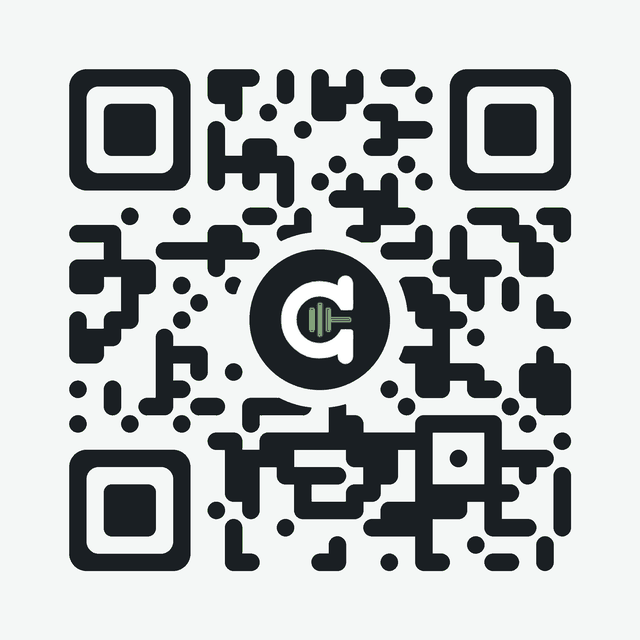
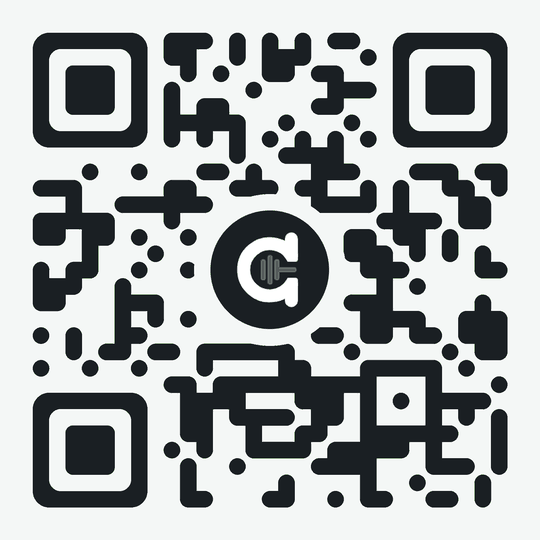
fix(webmail): socials flush right, pills lose a square border they never asked for
Three changes, one of which was a real bug rather than a preference.

THE SQUARE OUTLINE ROUND THE PILLS. border-radius does not apply to a table
cell when the table is border-collapse:collapse, which every table here is,
because that is what email HTML requires. The background rounded and the border
did not, so each capsule was drawn inside a square outline. Removing the border
removes the artefact; the tint alone carries the shape, which is what the
reference does anyway.

SOCIALS MOVE INTO THE TEXT COLUMN, flushed right under the title, instead of
holding a row of their own. They cost no height there, so everything below
moves up -- and because the QR panel runs the full height of the block, it
shrinks to match. That is what makes the tinted area behind the code smaller.

THE QR, AND A THEORY THAT TURNED OUT TO BE WRONG. Shrinking the panel padding
broke decoding, which led somewhere useful: the baked quiet zone is part of the
image, so at 4 modules it was eating 22% of the display size -- a 184px render
was putting only 144px of actual code on screen. Cut to 2 modules, with the
panel's own padding completing the quiet zone in the same colour, so a scanner
still reads one continuous margin across the join.

That did not fix it either, and the reason is worth recording so nobody
re-derives it. Decoding a browser-rendered code is erratic with respect to
display size, with no threshold to find: from a 640px source it read at 180px,
[…]

diff --git a/mail/signature-template.php b/mail/signature-template.php
@@ -389,7 +389,7 @@ function sig_pill(string $glyph, string $value): string
     return '<table border="0" cellpadding="0" cellspacing="0" role="presentation"'
         . ' style="border-collapse:collapse;mso-table-lspace:0pt;mso-table-rspace:0pt;">'
         . '<tr><td bgcolor="' . SIG_PILL_BG . '" style="background-color:' . SIG_PILL_BG
-        . ';border:1px solid ' . SIG_PILL_EDGE . ';border-radius:999px;padding:7px 15px 7px 7px;">'
+        . ';border-radius:999px;padding:7px 15px 7px 7px;">'
         . $inner . '</td></tr></table>';
 }
 
@@ -503,9 +503,10 @@ function sig_social_row(array $person, string $iconBase): string
             $mark = sig_chip($iconBase, $key, $label, 30);
         }
         if ($mark !== '') {
-            $chips[] = '<td valign="middle" style="padding:0 16px 0 0;font-size:0;line-height:0;'
-                . 'mso-line-height-rule:exactly;"><a href="' . sig_esc($url)
-                . '" style="text-decoration:none;">' . $mark . '</a></td>';
+            $chips[] = '<td valign="middle" class="cc-chip" style="padding:0 0 0 16px;'
+                . 'font-size:0;line-height:0;mso-line-height-rule:exactly;">'
+                . '<a href="' . sig_esc($url) . '" style="text-decoration:none;">'
+                . $mark . '</a></td>';
         } else {
             $texts[] = sig_link($url, $label);
         }
@@ -517,7 +518,7 @@ function sig_social_row(array $person, string $iconBase): string
 
     $out = ['<table border="0" cellpadding="0" cellspacing="0" role="presentation"'
         . ' style="border-collapse:collapse;mso-table-lspace:0pt;mso-table-rspace:0pt;'
-        . 'margin-top:14px;"><tr>'];
+        . 'margin-top:8px;"><tr>'];
     $out = array_merge($out, $chips);
 
     if ($texts) {
@@ -621,7 +622,7 @@ function sig_qr_panel(array $company): string
     }
     $size = max(112, (int) ($company['qr_size'] ?? 220));
     $url  = trim((string) ($company['label'] ?? '')) ?: 'our site';
-    $pad  = 16;
+    $pad  = 12;
 
     return '<table border="0" cellpadding="0" cellspacing="0" role="presentation"'
         . ' style="border-collapse:collapse;mso-table-lspace:0pt;mso-table-rspace:0pt;'
@@ -731,21 +732,24 @@ function sig_build(array $person, array $company, string $mailbox): string
             . $whoLine . '</div>';
     }
 
+    // Socials ride INSIDE the text column, flushed right under the title,
+    // rather than holding a row of their own. That is what lets everything
+    // below move up: the row is gone, the left column is shorter, and the
+    // full-height QR panel shrinks to match it.
+    $socials = sig_social_row($person, $iconBase);
+    if ($socials !== '') {
+        $lines[] = '<table border="0" cellpadding="0" cellspacing="0" role="presentation"'
+            . ' style="border-collapse:collapse;mso-table-lspace:0pt;mso-table-rspace:0pt;'
+            . 'width:100%;"><tr><td align="right">' . $socials . '</td></tr></table>';
+    }
+
     $ident[] = '<td valign="middle">' . implode('', $lines) . '</td>';
     $ident[] = '</tr></table>';
 
-    $left    = [implode('', $ident)];
-    $pills   = sig_contact_grid(sig_contact_rows($person, $mailbox), $iconBase);
-    $socials = sig_social_row($person, $iconBase);
-
-    // Socials sit directly under the identity block, above the pills. They are
-    // small, and up here they read as part of who this is; parked under the
-    // pills they read as an afterthought at the bottom of a list.
-    if ($socials !== '') {
-        $left[] = $socials;
-    }
+    $left  = [implode('', $ident)];
+    $pills = sig_contact_grid(sig_contact_rows($person, $mailbox), $iconBase);
     if ($pills !== '') {
-        $left[] = '<div style="line-height:0;font-size:0;height:16px;">&nbsp;</div>' . $pills;
+        $left[] = '<div style="line-height:0;font-size:0;height:14px;">&nbsp;</div>' . $pills;
     }
 
     // ---- the card ---------------------------------------------------------

diff --git a/mail/make-signature-assets.py b/mail/make-signature-assets.py
@@ -285,7 +285,24 @@ def build_glyphs(tmp):
 # corrupts the ratio; the measured ceiling is 1.0 module of radius, above which
 # nothing decodes at any size.
 
-QUIET, SS = 4, 4
+# QUIET is 2 modules, not the spec's 4, and the difference is made up by the
+# tinted panel the template places the code on -- that padding is the same
+# colour as the code's ground, so a scanner reads one continuous quiet zone
+# across the join.
+#
+# It matters because the quiet zone is baked into the image and therefore eats
+# the display size: at 4 modules the border is 22% of the file, so a 184px
+# render put only 144px of actual code on screen -- about 5px per module, which
+# is where decoding starts failing. At 2 modules the same 184px carries 162px
+# of code. Fewer wasted pixels AND a smaller tinted margin, which is the shape
+# this design wanted anyway.
+# The size the TEMPLATE renders this at; the shipped file is 3x it for
+# resolution. Chosen by measuring browser-rendered decodes rather than by
+# theory -- see the note in build_qr. Keep in step with 'qr_size' in
+# signature-roster.php.
+DISPLAY_PX = 180
+
+QUIET, SS = 2, 4
 FINDER_R = 1.0  # module radii; measured ceiling, do not raise
 
 
@@ -402,12 +419,30 @@ def build_qr(tmp):
         sys.exit("    no logo size decoded -- refusing to write an unscannable code")
 
     ratio, floor, covered, total = chosen
-    # 640px source. The code renders around 220px, and a source under ~2.5x
-    # that leaves the browser downscaling module edges into mush -- which does
-    # not show up when you decode the source file, only when you decode a
-    # screenshot of the rendered page. Palette-quantised: two colours plus the
-    # badge, so RGB spends ~3x the bytes for no visible gain.
-    img, _ = render(640, ratio)
+    # Source at 3x the render size, for resolution on a 2x screen. The ratio
+    # itself buys nothing -- that was tested and is worth recording so nobody
+    # re-derives it.
+    #
+    # Decoding a BROWSER-RENDERED code is erratic with respect to display size
+    # in a way that has no threshold to find. From a 640px source it read at
+    # 180px, failed at 190 through 210, read again at 220 and 230. The obvious
+    # theory was that an integer downscale ratio would land module edges on
+    # whole pixels, so the source was pinned to exactly 3x -- and at exactly
+    # 3.00x it FAILED, while 3.25x and 2.66x read. The theory is wrong.
+    #
+    # What this actually is: OpenCV's detector binarizing badly at particular
+    # module-to-pixel ratios. The code is fine, and the proof is that the same
+    # failing render decodes perfectly when upscaled 3x with nearest-neighbour
+    # -- the geometry and the data are intact, the reader is not.
+    #
+    # So DISPLAY_PX is chosen EMPIRICALLY: 180 is the one size that decoded in
+    # both independent sweeps. Treat that as a weak signal, not a guarantee.
+    # A phone camera is a far better reader than this and works from a
+    # high-resolution capture rather than a fixed downscale, so it is more
+    # capable than anything measured here -- but it has to be tested on a real
+    # device, because nothing available in this environment can stand in for
+    # it.
+    img, _ = render(DISPLAY_PX * 3, ratio)
     dest = os.path.join(DEST, "qr-circuitcenter.png")
     img.convert("P", palette=Image.Palette.ADAPTIVE, colors=64).save(dest, optimize=True)
 
@@ -417,7 +452,7 @@ def build_qr(tmp):
     print(f"    logo {int(ratio*100)}%: covers {covered}/{total} modules "
           f"({100*covered/total:.1f}%), decodes at >= {floor}px")
     print(f"    qr-circuitcenter.png  {os.path.getsize(dest):,}B  "
-          f"(set qr_size >= {floor} in the roster)")
+          f"(render at EXACTLY {DISPLAY_PX}px; floor {floor}px)")
 
 
 def main():

diff --git a/mail/signature-roster.php b/mail/signature-roster.php
@@ -110,7 +110,7 @@ return [
          * the PNG by hand.
          */
         'qr'      => 'https://circuitcenter.ai/images/sig/qr-circuitcenter.png',
-        'qr_size' => 184,
+        'qr_size' => 180,
     ],
 
     /* -------------------------------------------------------------------
